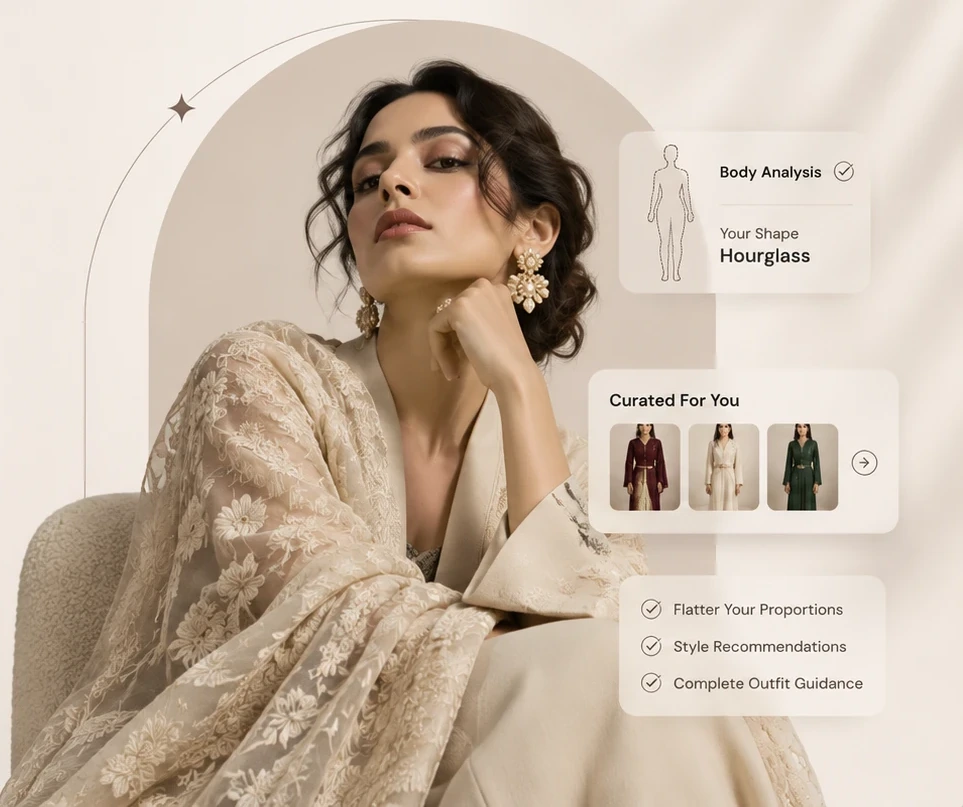
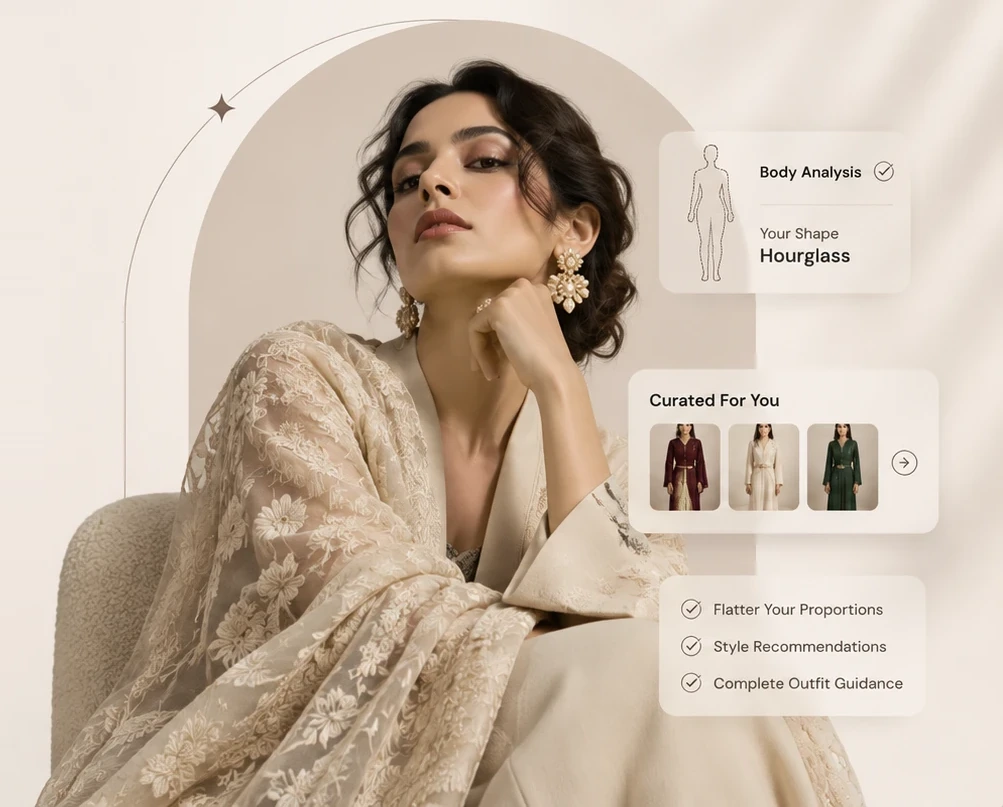
Make hero portrait full-height and flowing; add curated photos and new figure
- Portrait bleeds to the right edge and fills the screen height on desktop,
  fading softly into the background at the bottom instead of a hard edge.
- Wider crop keeps the full lace dupatta; headline remnants from the mockup
  painted out.
- Curated For You card now shows the three outfit photos from the design.
- Redrawn dotted, symmetrical front-view figure in the Body Analysis card.
- Phone card moved off the face.

Claude-Session: https://claude.ai/code/session_013AmMkooaCNc19dzhFnrV4U

diff --git a/components/Hero.tsx b/components/Hero.tsx
@@ -25,13 +25,21 @@ function HangerIcon(props: React.SVGProps<SVGSVGElement>) {
   );
 }
 
-// Dotted figure outline used on the "Body Analysis" card.
-function Silhouette() {
+// Dotted front-view female figure for the "Body Analysis" card.
+// One half is drawn and mirrored so the figure stays symmetrical.
+const figureHalf =
+  "M30 19.5c1.4 0 2.6-.2 2.6-.2V23c2.6 1 6.4 1.8 8.6 3.4 2 1.4 2.6 3.6 2.9 6.6l1.4 17.5c.4 5.2 1.3 10.6 1.9 15.4.4 3 .3 5.6-1 6.8-.8.7-1.8.2-2-1L43 52.2c-.4-3.4-1.2-7.2-2-10.2" +
+  "c.4 4.6-.4 9-2.6 13.2-1 1.9-.8 4 .6 6.4 2.6 4.4 3.2 10.4 2.2 17-1 6.4-2.6 12-3.2 18.4-.5 5.6-.2 11 .2 16.6.3 3.6-.4 6.8-2.4 7.2-1.6.3-2.6-.4-2.7-1.6" +
+  "-.4-5.4-.4-11-.6-16.4-.2-6-.9-12.4-1.4-18.6L30 79";
+
+function Silhouette({ className = "" }: { className?: string }) {
   return (
-    <svg viewBox="0 0 40 110" className="h-[6.5em] w-[2.4em] shrink-0 text-taupe" fill="none" stroke="currentColor" strokeWidth={0.9} strokeDasharray="2 2" aria-hidden>
-      <circle cx="20" cy="9" r="6" />
-      <path d="M17 15v4c-5 1-8 3-8 7l1 14c0 4 3 6 3 10s-3 8-3 13c0 4 3 7 4 10l1 30M23 15v4c5 1 8 3 8 7l-1 14c0 4-3 6-3 10s3 8 3 13c0 4-3 7-4 10l-1 30" />
-      <path d="M9 27 5 48l2 10M31 27l4 21-2 10" />
+    <svg viewBox="0 0 60 140" className={`shrink-0 text-chocolate/70 ${className}`} fill="none" aria-hidden>
+      <g stroke="currentColor" strokeWidth={1} strokeLinecap="round" strokeLinejoin="round" strokeDasharray="0.1 1.9">
+        <ellipse cx="30" cy="11" rx="6" ry="7.6" />
+        <path d={figureHalf} />
+        <path d={figureHalf} transform="translate(60 0) scale(-1 1)" />
+      </g>
     </svg>
   );
 }
@@ -42,27 +50,30 @@ const features = [
   { label: "Wardrobe Planning", Icon: Layers },
 ];
 
-// Fabric-tone swatches stand in until the catalogue photographs are added.
 const looks = [
-  { name: "look-1", tone: "#6b2c32" },
-  { name: "look-2", tone: "#e4d8c6" },
-  { name: "look-3", tone: "#2f4a3b" },
+  { name: "look-1", alt: "Burgundy embroidered tunic set" },
+  { name: "look-2", alt: "Ivory belted kurta" },
+  { name: "look-3", alt: "Emerald belted dress" },
 ];
 
 const card = "border border-white/80 bg-[#f8f4ef] shadow-[0_12px_40px_-14px_rgba(73,55,46,0.22)]";
 
-// Softens the photograph's top and side edges into the section background.
-const fade: React.CSSProperties = {
-  maskImage: "linear-gradient(to right, transparent, #000 7%, #000 93%, transparent), linear-gradient(to bottom, transparent, #000 6%)",
-  WebkitMaskImage: "linear-gradient(to right, transparent, #000 7%, #000 93%, transparent), linear-gradient(to bottom, transparent, #000 6%)",
-  maskComposite: "intersect",
-  WebkitMaskComposite: "source-in",
-};
+// Softens the photograph into the section background: left/top edges and a long fade at the bottom.
+function fade(right: boolean): React.CSSProperties {
+  const x = `linear-gradient(to right, transparent, #000 9%${right ? ", #000 93%, transparent" : ""})`;
+  const y = "linear-gradient(to bottom, transparent, #000 5%, #000 91%, transparent)";
+  return {
+    maskImage: `${x}, ${y}`,
+    WebkitMaskImage: `${x}, ${y}`,
+    maskComposite: "intersect",
+    WebkitMaskComposite: "source-in",
+  };
+}
 
 function BodyCard({ className = "" }: { className?: string }) {
   return (
-    <div aria-hidden className={`${card} flex items-center gap-[0.9em] rounded-2xl ${className}`}>
-      <Silhouette />
+    <div className={`${card} flex items-center gap-[0.9em] rounded-2xl ${className}`}>
+      <Silhouette className="h-[6.6em] w-[2.9em]" />
       <div className="min-w-0 flex-1">
         <p className="flex items-center justify-between gap-2 font-medium text-charcoal">
           Body Analysis <CircleCheck strokeWidth={1.5} className="h-[1.3em] w-[1.3em] shrink-0 text-chocolate" />
@@ -75,16 +86,18 @@ function BodyCard({ className = "" }: { className?: string }) {
   );
 }
 
+const alt = "An elegant woman in an embroidered ivory outfit and lace dupatta, seated in soft natural light";
+
 export default function Hero() {
   return (
     <section
       id="home"
       aria-labelledby="hero-title"
-      className="relative overflow-hidden bg-[linear-gradient(100deg,#f6f1eb_0%,#f2eae2_55%,#ede4db_100%)] pt-32 sm:pt-36 lg:pt-32"
+      className="relative overflow-hidden bg-[linear-gradient(to_bottom,transparent_60%,#f1ebe3),linear-gradient(100deg,#f6f1eb_0%,#f2eae2_55%,#ede4db_100%)] lg:flex lg:min-h-[max(100svh,calc(var(--hero-w)*0.805+6rem))] lg:items-center lg:[--hero-w:min(50vw,calc((100svh-6rem)/0.805))] xl:[--hero-w:min(58vw,calc((100svh-6rem)/0.805),68rem)]"
     >
-      <div className="container-x grid items-center gap-14 lg:grid-cols-12 lg:gap-8">
+      <div className="container-x relative z-10 pt-32 sm:pt-36 lg:pt-28 lg:pb-16">
         {/* Copy */}
-        <div className="lg:col-span-6 lg:self-center lg:pb-16">
+        <div className="lg:max-w-[44vw] xl:max-w-[min(42vw,40rem)]">
           <p className="eyebrow">Personal Fashion Consulting</p>
           <h1
             id="hero-title"
@@ -115,71 +128,54 @@ export default function Hero() {
             ))}
           </ul>
         </div>
+      </div>
 
-        {/* Visual: the portrait composition, with readable detail cards laid over it */}
-        <div className="relative -mx-5 sm:mx-0 lg:col-span-6 lg:-mr-12 lg:self-end xl:-mr-24">
-          {/* Phones: narrower crop with one card */}
-          <div className="relative mx-auto max-w-[30rem] md:hidden">
-            <Image
-              src={heroNarrow}
-              alt="An elegant woman in an embroidered ivory outfit, seated in soft natural light"
-              sizes="(min-width: 480px) 30rem, 100vw"
-              placeholder="blur"
-              preload
-              className="h-auto w-full"
-              style={fade}
-            />
-            <Reveal delay={0.2} className="absolute right-4 bottom-[7%] w-[56%] max-w-[15rem]">
-              <BodyCard className="p-3.5 text-sm" />
-            </Reveal>
-          </div>
+      {/* Phones: narrower crop with one card */}
+      <div className="relative mx-auto mt-10 max-w-[32rem] md:hidden">
+        <Image src={heroNarrow} alt={alt} sizes="(min-width: 512px) 32rem, 100vw" placeholder="blur" preload className="h-auto w-full" style={fade(true)} />
+        <Reveal delay={0.2} className="absolute right-4 bottom-[12%] w-[56%] max-w-[15rem]">
+          <BodyCard className="p-3.5 text-sm" />
+        </Reveal>
+      </div>
 
-          {/* Tablet and desktop: full composition. Sizes use container units so cards scale with the image. */}
-          <div className="relative hidden [container-type:inline-size] md:block">
-            <Image
-              src={heroWide}
-              alt="An elegant woman in an embroidered ivory outfit, seated in soft natural light"
-              sizes="(min-width: 1280px) 44rem, (min-width: 1024px) 55vw, 100vw"
-              placeholder="blur"
-              preload
-              className="h-auto w-full"
-              style={fade}
-            />
-            <div aria-hidden className="pointer-events-none text-[1.9cqw] leading-snug whitespace-nowrap">
-              <Reveal delay={0.2} className="absolute top-[12.5cqw] left-[63cqw] w-[35cqw]">
-                <BodyCard className="min-h-[19.1cqw] p-[1.9cqw]" />
-              </Reveal>
+      {/* Tablet: in flow. Desktop: bleeds to the right edge of the screen and sits on the section's bottom edge.
+          Card sizes use container units so they scale with the photograph and cover the cards drawn into it. */}
+      <div className="relative mt-10 hidden [container-type:inline-size] md:block lg:absolute lg:right-0 lg:bottom-0 lg:mt-0 lg:w-[var(--hero-w)]">
+        <Image
+          src={heroWide}
+          alt={alt}
+          sizes="(min-width: 1024px) 58vw, 100vw"
+          placeholder="blur"
+          preload
+          className="h-auto w-full"
+          style={fade(false)}
+        />
+        <div aria-hidden className="pointer-events-none text-[1.82cqw] leading-snug whitespace-nowrap">
+          <Reveal delay={0.2} className="absolute top-[12cqw] left-[64.5cqw] w-[32cqw]">
+            <BodyCard className="min-h-[18.2cqw] p-[1.8cqw]" />
+          </Reveal>
 
-              <Reveal delay={0.35} className="absolute top-[37.2cqw] left-[59.9cqw] w-[38cqw]">
-                <div className={`${card} min-h-[19.2cqw] rounded-[1.6cqw] p-[1.9cqw]`}>
-                  <p className="text-[1.05em] font-medium text-charcoal">Curated For You</p>
-                  <div className="mt-[1.3cqw] flex items-center gap-[0.9cqw]">
-                    {looks.map((l) => (
-                      <Photo
-                        key={l.name}
-                        name={l.name}
-                        alt=""
-                        className="aspect-[4/5] flex-1 rounded-[0.8cqw]"
-                        sizes="120px"
-                        fallback={<div className="h-full w-full" style={{ background: l.tone }} />}
-                      />
-                    ))}
-                    <CircleArrowRight strokeWidth={1.25} className="ml-[0.4cqw] h-[2.8cqw] w-[2.8cqw] shrink-0 text-chocolate" />
-                  </div>
-                </div>
-              </Reveal>
-
-              <Reveal delay={0.5} className="absolute top-[58.6cqw] left-[63cqw] w-[35cqw]">
-                <ul className={`${card} flex min-h-[16.8cqw] flex-col justify-center gap-[1.2cqw] rounded-[1.6cqw] p-[1.9cqw] text-charcoal`}>
-                  {["Flatter Your Proportions", "Style Recommendations", "Complete Outfit Guidance"].map((t) => (
-                    <li key={t} className="flex items-center gap-[1cqw]">
-                      <CircleCheck strokeWidth={1.5} className="h-[2cqw] w-[2cqw] shrink-0 text-chocolate" /> {t}
-                    </li>
-                  ))}
-                </ul>
-              </Reveal>
+          <Reveal delay={0.35} className="absolute top-[35.8cqw] left-[61.5cqw] w-[35cqw]">
+            <div className={`${card} min-h-[18.4cqw] rounded-2xl p-[1.8cqw]`}>
+              <p className="text-[1.05em] font-medium text-charcoal">Curated For You</p>
+              <div className="mt-[1.2cqw] flex items-center gap-[0.8cqw]">
+                {looks.map((l) => (
+                  <Photo key={l.name} name={l.name} alt={l.alt} className="aspect-[4/5] flex-1 rounded-[0.8cqw]" sizes="140px" />
+                ))}
+                <CircleArrowRight strokeWidth={1.25} className="ml-[0.4cqw] h-[2.7cqw] w-[2.7cqw] shrink-0 text-chocolate" />
+              </div>
             </div>
-          </div>
+          </Reveal>
+
+          <Reveal delay={0.5} className="absolute top-[56.3cqw] left-[64.5cqw] w-[32cqw]">
+            <ul className={`${card} flex min-h-[16.1cqw] flex-col justify-center gap-[1.1cqw] rounded-2xl p-[1.8cqw] text-charcoal`}>
+              {["Flatter Your Proportions", "Style Recommendations", "Complete Outfit Guidance"].map((t) => (
+                <li key={t} className="flex items-center gap-[0.9cqw]">
+                  <CircleCheck strokeWidth={1.5} className="h-[1.9cqw] w-[1.9cqw] shrink-0 text-chocolate" /> {t}
+                </li>
+              ))}
+            </ul>
+          </Reveal>
         </div>
       </div>
     </section>

diff --git a/README.md b/README.md
@@ -33,7 +33,7 @@ The supplied logo is in `public/logo.png` (favicons generated from it in `app/ic
 | `public/logo.png` | Brand logo (header, footer, consultation page). Replace to update everywhere. |
 | `app/opengraph-image.jpg` (1200×630) | Social share image (optional). |
 | `public/images/hero-wide.webp`, `hero-narrow.webp` | Hero portrait (tablet/desktop and phone crops). The desktop detail cards are positioned over this exact composition; if you replace it with a different photo, adjust the card positions in `components/Hero.tsx`. A higher-resolution original will look sharper on retina screens. |
-| `public/images/look-1.jpg` … `look-3.jpg` | Three small outfit thumbnails in the hero "Curated For You" card (4:5). Fabric-tone swatches show until added. |
+| `public/images/look-1.jpg` … `look-3.jpg` | Outfit thumbnails in the hero "Curated For You" card (taken from the design mockup; replace with 4:5 product photos when available). |
 | `public/images/services.jpg` | Services section (4:5, desktop only). |
 | `public/images/about.jpg` | About section (4:5). |
 
